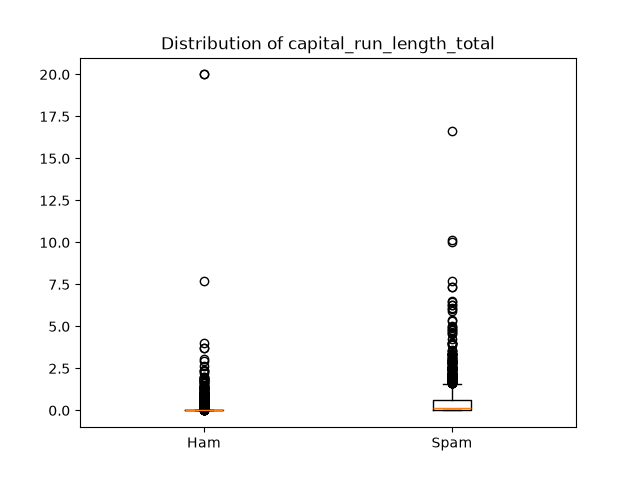
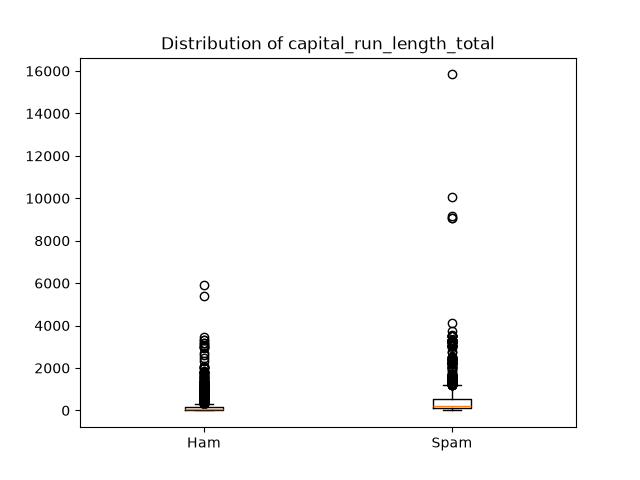
debugged project_03

diff --git a/assignments_03/project_03.py b/assignments_03/project_03.py
@@ -124,8 +124,8 @@ features = ['word_freq_free','char_freq_!','capital_run_length_total' ]
 
 
 for feature in features:
-    spam = df['word_freq_free'][df["spam_label"]==1]
-    ham =  df['word_freq_free'][df["spam_label"]!=1]
+    spam = df[feature][df["spam_label"]==1]
+    ham =  df[feature][df["spam_label"]!=1]
 
     plt.figure()
     plt.boxplot([ham, spam],tick_labels=['Ham','Spam'])
@@ -270,11 +270,11 @@ for depth in depths:
 # What do you notice as depth increases? What does that tell you about overfitting? 
 # Pick the depth you would use in production and add a comment explaining your reasoning. Then, using your chosen depth, print the accuracy and full classification report as you did for the other classifiers.
 
-#COMMENT: As depth increased, the accuracy of both the training and test sets increased. 
+#COMMENT: As depth increased, training accuracy went all the way to 1.0. However, the test accuracy leveled off, which tells us the unlimited model was overfitting to the training data. I chose a depth of 10 for production because it gives the best test accuracy without perfectly memorizing the training noise.
 
-print("\n-----DECISION TREE CLASSIFIER CHOSEN DEPTH: NONE-----\n")
-#CHOSEN DEPTH: NONE
-dt = DecisionTreeClassifier(max_depth=None,random_state=42)
+print("\n-----DECISION TREE CLASSIFIER CHOSEN DEPTH: 10-----\n")
+#CHOSEN DEPTH: 10
+dt = DecisionTreeClassifier(max_depth=10, random_state=42)
 #fit
 dt.fit(X_train,y_train)
 #predict
@@ -322,7 +322,7 @@ print("Saved plot to outputs/feature_importances.png")
 print("\n-----LOGISTIC REGRESSION-----\n")
 
 # SCALED
-lr_scaled = LogisticRegression(C=1.0, max_iter=1000)
+lr_scaled = LogisticRegression(C=1.0, max_iter=1000, solver='liblinear')
 lr_scaled.fit(X_train_scaled, y_train)
 preds_lr_scaled = lr_scaled.predict(X_test_scaled)
 
@@ -330,7 +330,7 @@ print(f"LR Scaled Accuracy Score: {accuracy_score(y_test, preds_lr_scaled):.3f}"
 print(f"LR Scaled Classification Report:\n{classification_report(y_test, preds_lr_scaled)}\n")
 
 # PCA
-lr_pca = LogisticRegression(C=1.0, max_iter=1000)
+lr_pca = LogisticRegression(C=1.0, max_iter=1000, solver='liblinear')
 lr_pca.fit(X_train_pca, y_train)
 preds_lr_pca = lr_pca.predict(X_test_pca)
 
